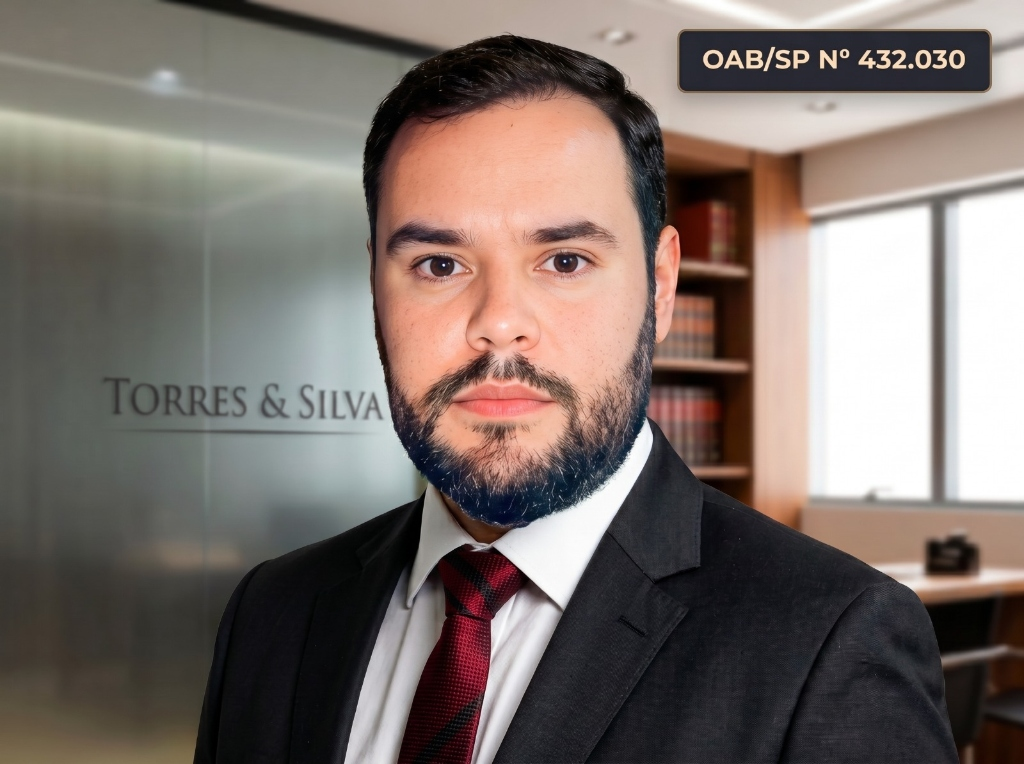
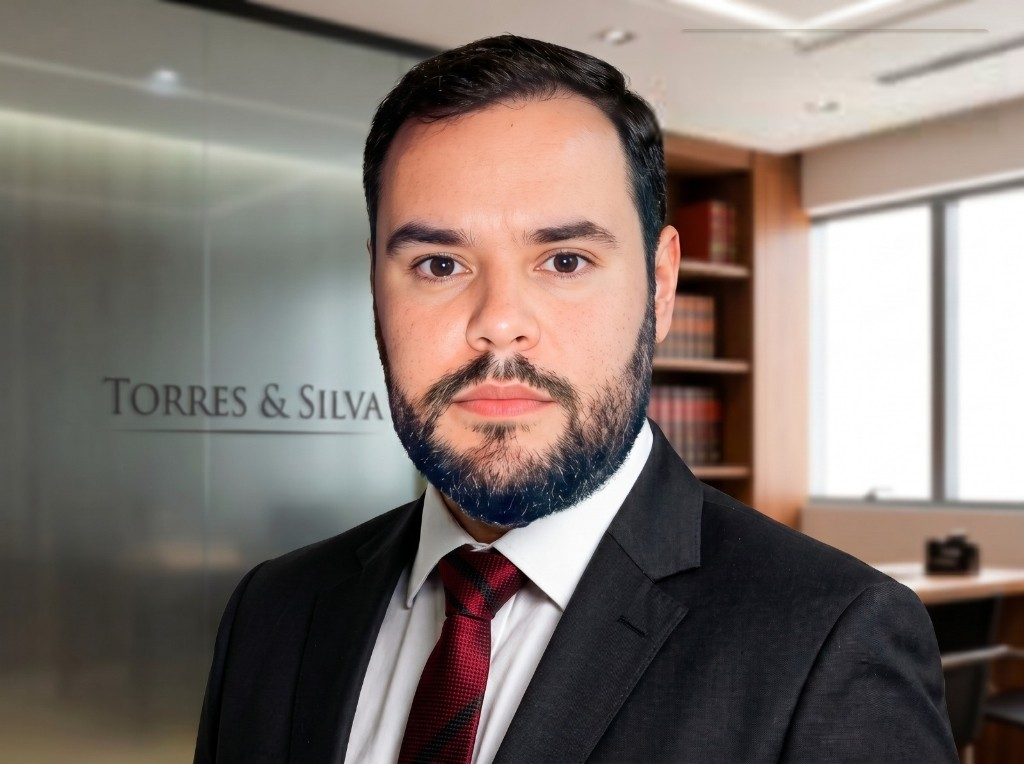
fix: remover badges de OAB sobrepostos nas fotos e aplicar foto limpa em alta resolucao do Dr. Washington

Changed region(s): [[0.6562, 0.0301, 0.9688, 0.1505], [0.625, 0.1505, 0.6562, 0.1806]]

diff --git a/index.html b/index.html
@@ -525,8 +525,7 @@
           <!-- Advogado 1: Dr. Marcio Silva -->
           <div class="attorney-card">
             <div class="attorney-image-wrap">
-              <img src="assets/images/lawyer-marcio-silva.jpg" alt="Dr. Márcio Silva - Advogado Sócio">
-              <div class="attorney-oab-badge">OAB/SP nº 385.787</div>
+              <img src="assets/images/lawyer-marcio-silva.jpg?v=1.4" alt="Dr. Márcio Silva - Advogado Sócio">
             </div>
             <div class="attorney-info">
               <h3 class="attorney-name">Dr. Márcio Silva</h3>
@@ -554,8 +553,7 @@
           <!-- Advogado 2: Dr. Washington Torres -->
           <div class="attorney-card">
             <div class="attorney-image-wrap">
-              <img src="assets/images/lawyer-washington-torres.jpg?v=1.3" alt="Dr. Washington Torres - Advogado Sócio">
-              <div class="attorney-oab-badge">OAB/SP nº 432.030</div>
+              <img src="assets/images/lawyer-washington-torres.jpg?v=1.4" alt="Dr. Washington Torres - Advogado Sócio">
             </div>
             <div class="attorney-info">
               <h3 class="attorney-name">Dr. Washington Torres</h3>
